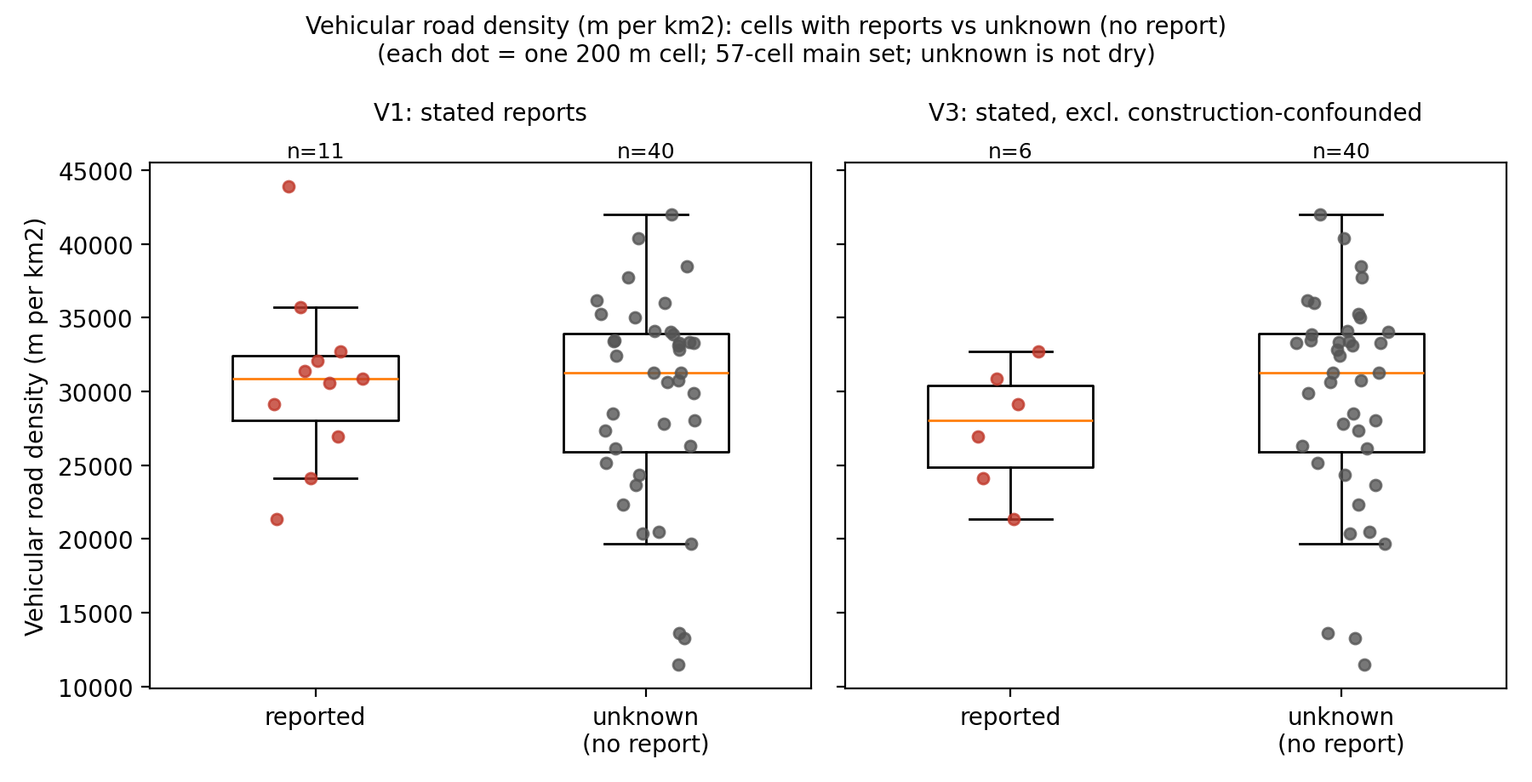
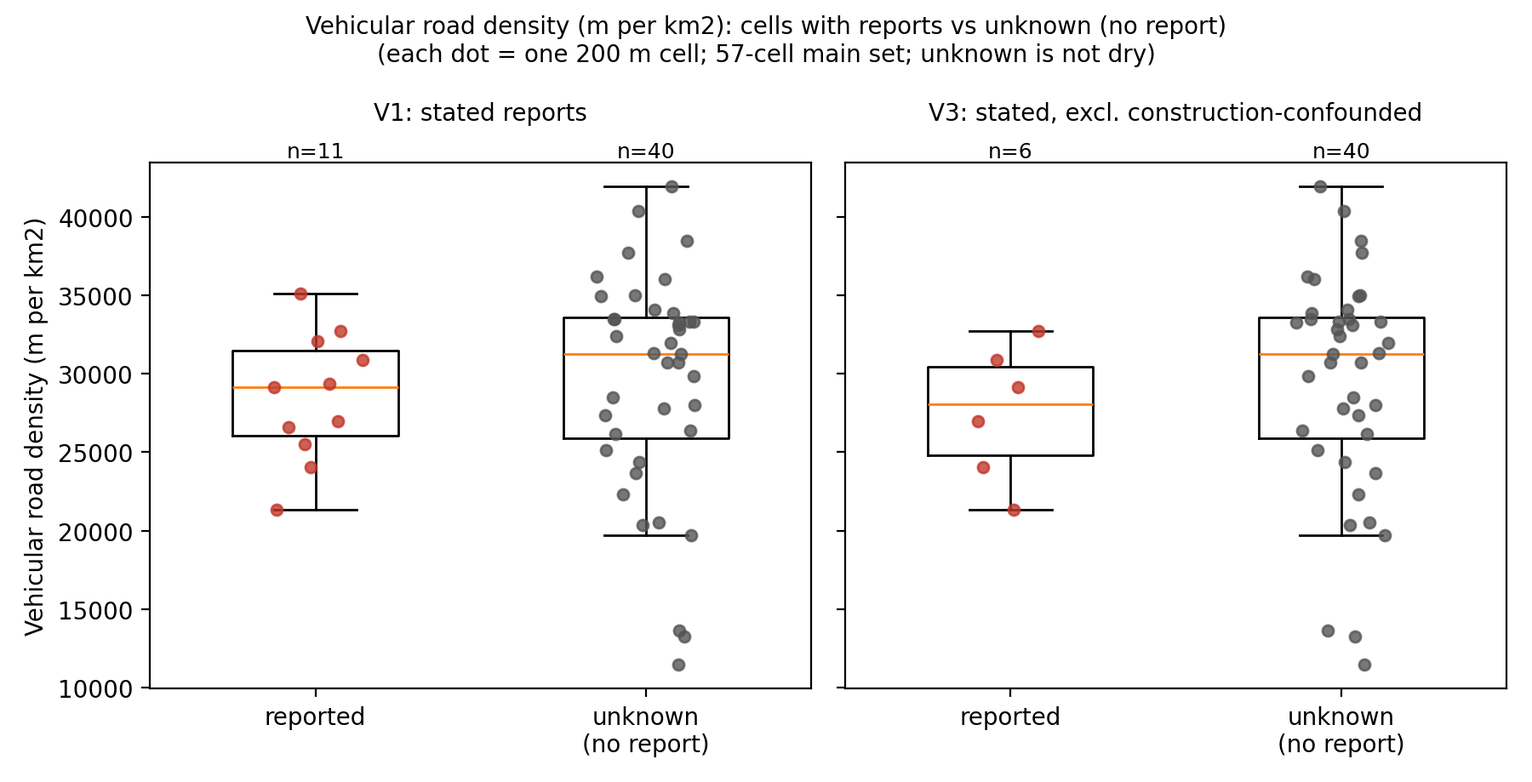
MF-42: Review (R3-R6 fixed: road length clipped to land, duplicate segment dropped, MF-30 rerun)

diff --git a/scripts/compute_grid_attributes.py b/scripts/compute_grid_attributes.py
@@ -11,8 +11,11 @@ shortcut: area is sampled at 5 m, so shares are good to about 0.1-0.5 percentage
 to about 1/(land points); pixel areas inside the island are treated as equal (about 4 deg N). Use exact
 polygon overlay if shapely is added.
 shortcut: building coverage uses footprint outer rings only (no holes) and counts overlapping footprints once
-(point is inside any); roads are clipped to the whole cell square, not to land (road_density divides by land area,
-so edge cells with jetties/causeways are inflated); the coast distance uses the OneMap outer ring only.
+(point is inside any); the coast distance uses the OneMap outer ring only.
+shortcut: road length is measured by sampling each segment at <= 1 m and keeping samples inside both the cell
+square and the OneMap outer ring (so jetty/causeway length off land no longer inflates density, MF-42 R3); good to
+about 1-3 m per cell. Segments marked rule = duplicate_geometry in derived/unnamed_segment_review.csv (MF-15) are
+dropped so their length is not counted twice.
 
 Raster georeferencing (Pillow tags 33550 scale, 33922 tiepoint, 34735 GeoKeys key 1025):
   FABDEM RasterPixelIsPoint: tiepoint is the CENTRE of pixel (0,0); pixel i spans x0 + (i +- 0.5) * dx.
@@ -36,7 +39,7 @@ Columns
   building_coverage_google075        share of land points inside any Google Open Buildings v3 footprint with confidence >= 0.75
                                      (0-1; footprint area fraction, not counts; model detections, not survey; CC BY 4.0 / ODbL).
                                      File: mapping/male_google_buildings_conf075.geojson
-  road_length_m, road_density_m_per_km2        OSM road centreline length clipped to the cell square (m) and that divided by land area (m per km2). ODbL.
+  road_length_m, road_density_m_per_km2        OSM road centreline length inside the cell square and on OneMap land (m), and that divided by land area (m per km2). ODbL.
   road_length_vehicular_m, ..._density_...     same, fclass in primary, primary_link, secondary, tertiary, residential,
                                      service, living_street (footway, pedestrian, path, steps excluded). File: mapping/male_osm_roads.geojson
   dist_centre_to_coast_m             distance from the cell square's centre to the OneMap outer ring, m
@@ -59,6 +62,7 @@ FAB = PACK / "elevation/Male_FABDEM_30m_masked.tif"
 WC = PACK / "mapping/male_worldcover_2021_10m.tif"
 BLD = PACK / "mapping/male_google_buildings_conf075.geojson"
 ROADS = PACK / "mapping/male_osm_roads.geojson"
+SEG_REVIEW = FilePath("derived/unnamed_segment_review.csv")
 OUT = FilePath("derived/grid_attributes.csv")
 CELL, N = 200, 40
 VEHICULAR = {"primary", "primary_link", "secondary", "tertiary", "residential", "service", "living_street"}
@@ -106,23 +110,15 @@ def pixel_weights(pix):
     return ids, cnt / cnt.sum()
 
 
-def clip_len(p, q, x0, y0, x1, y1):
-    """Liang-Barsky: length of segment p->q inside the rectangle."""
-    dx, dy = q[0] - p[0], q[1] - p[1]
-    t0, t1 = 0.0, 1.0
-    for pk, qk in ((-dx, p[0] - x0), (dx, x1 - p[0]), (-dy, p[1] - y0), (dy, y1 - p[1])):
-        if pk == 0:
-            if qk < 0:
-                return 0.0
-        else:
-            r = qk / pk
-            if pk < 0:
-                t0 = max(t0, r)
-            else:
-                t1 = min(t1, r)
-            if t0 > t1:
-                return 0.0
-    return (t1 - t0) * np.hypot(dx, dy)
+def sample_line(xy):
+    """Midpoints of <= 1 m pieces along a polyline, with each piece's length: rows of (x, y, length_m)."""
+    out = []
+    for a, b in zip(xy[:-1], xy[1:]):
+        L = float(np.hypot(*(b - a)))
+        k = max(1, int(np.ceil(L)))
+        t = (np.arange(k) + 0.5) / k
+        out.append(np.column_stack([a[0] + t * (b[0] - a[0]), a[1] + t * (b[1] - a[1]), np.full(k, L / k)]))
+    return np.vstack(out) if out else np.empty((0, 3))
 
 
 def dist_to_ring(pt, ring):
@@ -157,12 +153,22 @@ def main():
             polys.append((xy.min(0), xy.max(0), Path(xy)))
     bmin = np.array([p[0] for p in polys]); bmax = np.array([p[1] for p in polys])
 
-    roads = []  # (is_vehicular, xy)
+    seg = pd.read_csv(SEG_REVIEW)
+    dup = set(seg.loc[seg.rule == "duplicate_geometry", "osm_id"].astype(str))
+    rs, rv, dropped = [], [], []  # road samples, is-vehicular flag per sample, dropped duplicate osm_ids
     for f in json.loads(ROADS.read_text(encoding="utf-8"))["features"]:
+        if str(f["properties"]["osm_id"]) in dup:
+            dropped.append(str(f["properties"]["osm_id"]))
+            continue
         g = f["geometry"]
         for line in (g["coordinates"] if g["type"] == "MultiLineString" else [g["coordinates"]]):
-            roads.append((f["properties"].get("fclass") in VEHICULAR, utm_xy(line)))
-    road_total = sum(np.hypot(*np.diff(xy, axis=0).T).sum() for _, xy in roads)
+            s = sample_line(utm_xy(line))
+            rs.append(s)
+            rv.append(np.full(len(s), f["properties"].get("fclass") in VEHICULAR))
+    assert set(dropped) == dup, (dup, dropped)
+    rs, rv = np.vstack(rs), np.concatenate(rv)
+    on_land = island.contains_points(rs[:, :2])
+    road_total, road_land = rs[:, 2].sum(), rs[on_land, 2].sum()
 
     off = (np.arange(N) + 0.5) * CELL / N
     gx, gy = np.meshgrid(off, off)
@@ -210,13 +216,8 @@ def main():
             inb |= polys[i][2].contains_points(land)
         row["building_coverage_google075"] = inb.mean()
         # roads
-        tot = veh = 0.0
-        for isv, xy in roads:
-            if xy[:, 0].max() < e or xy[:, 0].min() > e + CELL or xy[:, 1].max() < n or xy[:, 1].min() > n + CELL:
-                continue
-            L = sum(clip_len(a, b, e, n, e + CELL, n + CELL) for a, b in zip(xy[:-1], xy[1:]))
-            tot += L
-            veh += L * isv
+        s = on_land & (rs[:, 0] >= e) & (rs[:, 0] < e + CELL) & (rs[:, 1] >= n) & (rs[:, 1] < n + CELL)
+        tot, veh = float(rs[s, 2].sum()), float(rs[s & rv, 2].sum())
         km2 = row["land_area_m2"] / 1e6
         row.update(road_length_m=tot, road_density_m_per_km2=tot / km2, road_length_vehicular_m=veh,
                    road_density_vehicular_m_per_km2=veh / km2)
@@ -242,20 +243,14 @@ def main():
     assert np.abs(df.land_fraction.values - gl).max() < 0.02
     shares = [c for c in cols if c.endswith("_share") or c in ("land_fraction", "building_coverage_google075")]
     assert ((df[shares].fillna(0) >= 0) & (df[shares].fillna(0) <= 1 + 1e-9)).all().all()
-    s = df[["worldcover_builtup_share", "worldcover_tree_share", "worldcover_water_share", "worldcover_other_share"]].dropna().sum(1)
+    s = df[["worldcover_builtup_share", "worldcover_tree_share", "worldcover_water_share", "worldcover_other_share"]].dropna().sum(axis=1)
     assert (abs(s - 1) < 1e-6).all()
     d = df.dropna(subset=["fabdem_min_m"])
     assert (d.fabdem_min_m <= d.fabdem_p10_m + 1e-9).all()
-    xmin, ymin = ring.min(0); xmax, ymax = ring.max(0)
-    ex = [f["properties"] for f in grid]
-    gx0, gx1 = min(q["easting_min"] for q in ex), max(q["easting_min"] for q in ex) + CELL
-    gy0, gy1 = min(q["northing_min"] for q in ex), max(q["northing_min"] for q in ex) + CELL
-    indep = sum(np.hypot(*np.diff(np.clip(xy, [gx0, gy0], [gx1, gy1]), axis=0).T).sum() for _, xy in roads)  # clip-by-clamp: approx
-    print(f"road total {df.road_length_m.sum():.0f} m vs all OSM {road_total:.0f} m vs clamp-in-extent {indep:.0f} m")
-    assert abs(df.road_length_m.sum() - road_total) / road_total < 0.02 or abs(df.road_length_m.sum() - indep) / indep < 0.02
-
-    # ---- reports
-    print("grid extent roads outside grid (m):", round(road_total - df.road_length_m.sum()))
+    # every on-land road sample falls in exactly one cell (the grid covers the island), so the cell sums equal the on-land total
+    print(f"road on land {road_land:.0f} m of {road_total:.0f} m OSM (duplicates dropped: {sorted(dup)}); cell sum {df.road_length_m.sum():.0f} m")
+    assert abs(df.road_length_m.sum() - road_land) < 1, (df.road_length_m.sum(), road_land)
+    assert (df.road_length_vehicular_m <= df.road_length_m + 1e-9).all()
     land_w = df.land_area_m2
     print("island FABDEM land-weighted mean of cell means: %.2f m (QA median 5.04); built-up share over land: %.3f; google bldg cov: %.3f" % (
         np.average(d.fabdem_mean_m, weights=d.land_area_m2), np.average(df.worldcover_builtup_share.dropna(), weights=land_w[df.worldcover_builtup_share.notna()]),

diff --git a/scripts/compare_reported_unknown.py b/scripts/compare_reported_unknown.py
@@ -78,7 +78,7 @@ for a in ATTRS:
         ax.set_xticks([0, 1]); ax.set_xticklabels(["reported", "unknown\n(no report)"])
         ax.set_title("V1: stated reports" if vn == "V1_stated" else "V3: stated, excl. construction-confounded", fontsize=10, pad=18)
     axs[0].set_ylabel(LAB[a])
-    fig.suptitle(f"{LAB[a]}: cells with reports vs unknown (no report)\n(each dot = one 200 m cell; 57-cell main set; unknown is not dry)", fontsize=10)
+    fig.suptitle(f"{LAB[a]}: cells with reports vs unknown (no report)\n(each dot = one 200 m cell; {int(d.main.sum())}-cell main set; unknown is not dry)", fontsize=10)
     fig.tight_layout(); fig.savefig(f"{OUT}/strip_{a}.png", dpi=200); plt.close(fig)
 
 fig, ax = plt.subplots(figsize=(7.5, 5.5))
@@ -97,12 +97,13 @@ ax.legend(fontsize=8); fig.tight_layout(); fig.savefig(f"{OUT}/scatter_elev_coas
 # self-checks
 for vn, (r, u) in V.items():
     assert not (r & u).any(), vn
-    assert (d.loc[r, "status"] != "unknown").all()
-    assert (d.loc[d.main & r, "status"] != "unknown").all() and (d.loc[u, "status"] == "unknown").all()
+    assert (d.loc[r, "status"] != "unknown").all() and (d.loc[u, "status"] == "unknown").all()
     for sn, sm in SETS.items():
-        for a in ATTRS[2:]:
-            g = gs[(gs.cell_set == sn) & (gs.version == vn) & (gs.attribute == a)].iloc[0]
-            assert g.reported_n == (sm & r & d[a].notna()).sum() and g.unknown_n == (sm & u & d[a].notna()).sum()
+        for a in ATTRS:
+            for flt in (["excl_zero_share_gt_0.1", "all_cells"] if a in FAB else ["all_cells"]):
+                k = sm & d[a].notna() & ((d.fabdem_zero_share <= 0.1) if flt.startswith("excl") else True)
+                g = gs[(gs.cell_set == sn) & (gs.version == vn) & (gs.attribute == a) & (gs.fabdem_filter == flt)]
+                assert len(g) == 1 and g.iloc[0].reported_n == (k & r).sum() and g.iloc[0].unknown_n == (k & u).sum(), (sn, vn, a, flt)
 assert not (V["V3_stated_excl_confounded"][0] & conf).any() and not (V["V3_stated_excl_confounded"][1] & conf).any()
 assert not (V["V4_V1_excl_routine_pump_sites"][0] & pump).any()
 for a in ATTRS: assert os.path.exists(f"{OUT}/strip_{a}.png")
@@ -121,7 +122,7 @@ L.append("## 1. Purpose\nDescribe how cells of the 200 m Malé grid that have a 
 L.append(f"## 2. Data and cell set\nInputs: `grid_evidence.csv`, `grid_attributes.csv`, `grid_blocks.csv`, `ward_evidence_summary.csv`. Main cell set: land fraction >= 0.25 plus the MF-26 exception cell {EXC} = **{int(d.main.sum())} of {len(d)} cells** (sensitivity: no cutoff, all {len(d)}). FABDEM comparisons leave out cells with exact-zero pixel share > 0.1 (likely the inherited sea mask); this drops "
          + ", ".join(f"{vn.split('_')[0]} {a} reported / {b} unknown" for vn, (a, b) in dropped.items()) + " cells. Results with those cells kept are in `group_summary.csv` (fabdem_filter = all_cells). "
          f"The designated cell ({des.cell_id}, {des.ward}) is kept out of both groups in every version.\n")
-L.append("## 3. Method\nFour versions, always unknown as the comparison group:\n- V1 stated flooding vs unknown.\n- V2 stated + pumping-only vs unknown.\n- V3 stated, excluding the 6 construction-confounded cells (RF071 only, issue E5); confounded cells left out of both groups.\n- V4 V1 without the two routine pump-site cells (IGMH, West Park/STO).\n"
+L.append(f"## 3. Method\nFour versions, always unknown as the comparison group:\n- V1 stated flooding vs unknown.\n- V2 stated + pumping-only vs unknown.\n- V3 stated, excluding the {int(conf.sum())} construction-confounded cells (RF071 only, issue E5); confounded cells left out of both groups.\n- V4 V1 without the {int(pump.sum())} routine pump-site cells (IGMH, West Park/STO).\n"
          "Per group: n, median, IQR, min, max, difference in medians, and the share of reported cells whose value lies inside the unknown group's IQR. The groups are biased samples (reports cluster at arterials and landmarks), so differences describe these cells only.\n")
 L.append("## 4. Key tables (main cell set)\n### Cells per group\n| Version | Reported | Unknown |\n|---|---|---|")
 for vn in V: a, b = cnt(vn); L.append(f"| {vn} | {a} | {b} |")
@@ -146,7 +147,7 @@ L.append("## 5. What the figures show\n`strip_<attribute>.png` plots each cell a
          "For V3 the reported-cell medians are " + "; ".join(f"{a} {x3[a].reported_median:.3g} against {x3[a].unknown_median:.3g}" for a in ATTRS) + ". "
          "Where the share inside the unknown IQR is high (table above) the groups overlap on that attribute; where it is low they separate in these cells.\n")
 L.append("## 6. Limits\n- Positive-only evidence: unknown cells include cells that flooded without a report, so differences may be understated or biased.\n- Reporting favours arterials and landmarks, so reported cells are not a random sample.\n- Pump sites: pumping-only and routine pump-site records reflect where pumps are stationed (V2 and V4 show the effect).\n"
-         f"- Six cells are confounded: their only stated flooding is RF071 (30 Jul 2026, blamed on pumps not yet commissioned, E5). V3 therefore has {cnt('V3_stated_excl_confounded')[0]} reported cells in the main set ({g('V3_stated_excl_confounded','fabdem_p10_m').reported_n:.0f} with FABDEM), so medians are very unstable.\n"
+         f"- {int(conf.sum())} cells are confounded: their only stated flooding is RF071 (30 Jul 2026, blamed on pumps not yet commissioned, E5). V3 therefore has {cnt('V3_stated_excl_confounded')[0]} reported cells in the main set ({g('V3_stated_excl_confounded','fabdem_p10_m').reported_n:.0f} with FABDEM), so medians are very unstable.\n"
          "- FABDEM is relative only, not surveyed, with known bias; exact zeros are likely sea mask. WorldCover built-up share is near saturation on land, so it separates little. Building coverage is one source (Google, confidence >= 0.75).\n"
          "- The four OSM wards are not checked against a Council map; ward rows describe small n and are not comparable by size.\n- Differences are descriptive and not tested for any population.\n")
 L.append("## 7. For MF-50\nFacts only: see the overlap table for which attributes separate or overlap between the groups, and the V3 and V4 columns for how the picture changes when confounded cells or routine pump sites are removed. Use the MF-50 draft for any modelling decision.\n")

diff --git a/reports/mf42_code_review.md b/reports/mf42_code_review.md
@@ -19,9 +19,9 @@ The method matches its docstrings. After fixes R1 and R2, both scripts reproduce
 |---|---|---|---|---|---|
 | R1 | High (blocks rerun on Windows) | both | Files were opened without `encoding=`, so Windows used cp1252. `compute_grid_attributes.py` crashed reading the OneMap GeoJSON (`UnicodeDecodeError`). `compare_reported_unknown.py` wrote "Malé" in the report as cp1252, not UTF-8. This also blocks MF-32 on Windows. | Added `encoding="utf-8"` to the 4 `read_text()` calls and to the report `open()`. Outputs unchanged. Four other scripts have the same pattern (`build_dashboard.py`, `build_ward_map.py`, `define_spatial_blocks.py`, `explore_daily_flood.py`), outside this review; `scripts/rebuild_all.py` (MF-32) sets PYTHONUTF8=1, so they run there; run directly on Windows they still need the fix. | Resolved |
 | R2 | Medium | `requirements.txt` | `compute_grid_attributes.py` imports `PIL`, but Pillow was not listed. It only arrived as a matplotlib dependency, so its version was unpinned. | Added `pillow==13.0.0`. | Resolved |
-| R3 | Medium (affects MF-30 numbers) | `compute_grid_attributes.py` | Road length is clipped to the cell square but divided by land area (the documented shortcut). 891 m of the 61,043 m of vehicular road lies off the OneMap polygon (harbour and jetty segments). Clipping roads to land would cut density by 40% in G334800_462000, which has the highest density in the main set and is a reported, construction-confounded cell. G334600_462000 would drop by 19% and two others by 2 to 4%. All four are reported cells. The V1 reported median would fall from 30,860 to 29,113 m per km2, against 31,268 for unknown cells. So the "reported vs unknown" road-density comparison in MF-30 is partly an edge artefact. | Proposed: count only road length inside the island, for example by sampling segments at 1 m and testing with the existing `island.contains_points`, then rerun MF-30. The output and report numbers would change, so this needs Iyaadh's agreement. | Open (Iyaadh) |
-| R4 | Low | `compare_reported_unknown.py` | Several text values are hard-coded: "57-cell main set" in the figure titles, and "6 construction-confounded cells" and "two routine pump-site cells" in the report. They are correct now but will go stale if the evidence changes. | Suggest building them from `d.main.sum()`, `conf.sum()` and `pump.sum()`. | Open (Iyaadh) |
-| R5 | Low | `compare_reported_unknown.py` | The self-check on group n covers `ATTRS[2:]` only, so the FABDEM rows (two filter variants) are not checked. Line 101 repeats the check on line 100. | Suggest checking FABDEM n per `fabdem_filter` value. | Open (Iyaadh) |
-| R6 | Nit | `compute_grid_attributes.py` | A cell with no land would divide by zero (`ok.sum() / m`). It can't happen with the current grid (minimum land fraction 0.001). `.sum(1)` raises a Pandas4Warning. | No change needed now. | Noted |
+| R3 | Medium (affects MF-30 numbers) | `compute_grid_attributes.py` | Road length is clipped to the cell square but divided by land area (the documented shortcut). 891 m of the 61,043 m of vehicular road lies off the OneMap polygon (harbour and jetty segments). Clipping roads to land would cut density by 40% in G334800_462000, which has the highest density in the main set and is a reported, construction-confounded cell. G334600_462000 would drop by 19% and two others by 2 to 4%. All four are reported cells. The V1 reported median would fall from 30,860 to 29,113 m per km2, against 31,268 for unknown cells. So the "reported vs unknown" road-density comparison in MF-30 is partly an edge artefact. | Fixed: roads are now sampled at 1 m or finer, and only samples inside both the cell and the OneMap ring are counted. The Liang-Barsky clip is removed. The fix also drops OSM 1528883097, the duplicate segment flagged in `reports/review_s1_aslan.md` (MF-15, issue F3). It is read from `unnamed_segment_review.csv` (`rule = duplicate_geometry`), not hard-coded. New self-check: cell sums equal the on-land total (64,753 m of 65,655 m). Only the 4 road columns of `grid_attributes.csv` changed, in 27 cells. In MF-30 (V1, main set), the reported median vehicular density fell from 30,900 to 29,100 m per km2 and the unknown median stayed at 31,300. V4 fell from 31,400 to 29,400, so it is now below unknown instead of just above it. The reported maximum fell from 43,900 to 35,100. The IQR-overlap shares are unchanged (0.64, 0.67). | Resolved |
+| R4 | Low | `compare_reported_unknown.py` | Several text values are hard-coded: "57-cell main set" in the figure titles, and "6 construction-confounded cells" and "two routine pump-site cells" in the report. They are correct now but will go stale if the evidence changes. | Built from `d.main.sum()`, `conf.sum()` and `pump.sum()`. The report now says "2" and "6" in digits. | Resolved |
+| R5 | Low | `compare_reported_unknown.py` | The self-check on group n covers `ATTRS[2:]` only, so the FABDEM rows (two filter variants) are not checked. Line 101 repeats the check on line 100. | The self-check now covers every attribute and every `fabdem_filter` row, and asserts exactly one row per combination. The duplicate check was removed. | Resolved |
+| R6 | Nit | `compute_grid_attributes.py` | A cell with no land would divide by zero (`ok.sum() / m`). It can't happen with the current grid (minimum land fraction 0.001). `.sum(1)` raises a Pandas4Warning. | Changed to `.sum(axis=1)`. The divide-by-zero case can't occur with this grid, so it is left as is. | Resolved |
 
-MF-42 stays **In progress** until R3 to R5 are resolved or Iyaadh decides to keep them as they are.
+R3 to R6 were fixed by Aslan on 24 Nov 2026, at the student's request, without waiting for Iyaadh. Both scripts pass their self-checks, and `scripts/rebuild_all.py --check-only` passes. Iyaadh should confirm the R3 method change when moving MF-42 to Done. The new road-density numbers replace the old ones wherever MF-30 is quoted.

diff --git a/reports/mf30_reported_vs_unknown.md b/reports/mf30_reported_vs_unknown.md
@@ -13,7 +13,7 @@ Four versions, always unknown as the comparison group:
 - V1 stated flooding vs unknown.
 - V2 stated + pumping-only vs unknown.
 - V3 stated, excluding the 6 construction-confounded cells (RF071 only, issue E5); confounded cells left out of both groups.
-- V4 V1 without the two routine pump-site cells (IGMH, West Park/STO).
+- V4 V1 without the 2 routine pump-site cells (IGMH, West Park/STO).
 Per group: n, median, IQR, min, max, difference in medians, and the share of reported cells whose value lies inside the unknown group's IQR. The groups are biased samples (reports cluster at arterials and landmarks), so differences describe these cells only.
 
 ## 4. Key tables (main cell set)
@@ -34,7 +34,7 @@ No-cutoff sensitivity: V1 12 / 57; V2 17 / 57; V3 6 / 57; V4 10 / 57 (reported /
 | fabdem_p10_m | 1.56 / 4.18 (n 10/36) | 1.26 / 4.18 (n 5/36) | 1.86 / 4.18 (n 8/36) |
 | building_coverage_google075 | 0.296 / 0.314 (n 11/40) | 0.28 / 0.314 (n 6/40) | 0.296 / 0.314 (n 9/40) |
 | worldcover_builtup_share | 0.574 / 0.527 (n 11/40) | 0.577 / 0.527 (n 6/40) | 0.574 / 0.527 (n 9/40) |
-| road_density_vehicular_m_per_km2 | 3.09e+04 / 3.13e+04 (n 11/40) | 2.8e+04 / 3.13e+04 (n 6/40) | 3.14e+04 / 3.13e+04 (n 9/40) |
+| road_density_vehicular_m_per_km2 | 2.91e+04 / 3.13e+04 (n 11/40) | 2.8e+04 / 3.13e+04 (n 6/40) | 2.94e+04 / 3.13e+04 (n 9/40) |
 | dist_land_centroid_to_coast_m | 70.9 / 228 (n 11/40) | 75.9 / 228 (n 6/40) | 70.9 / 228 (n 9/40) |
 
 ### Overlap: share of V1 reported cells inside the unknown IQR
@@ -44,7 +44,7 @@ No-cutoff sensitivity: V1 12 / 57; V2 17 / 57; V3 6 / 57; V4 10 / 57 (reported /
 | fabdem_p10_m | 0.50 | 0.60 | 0.46 to 6.07 | 0.45 to 6.36 |
 | building_coverage_google075 | 0.55 | 0.33 | 0.146 to 0.419 | 0.118 to 0.441 |
 | worldcover_builtup_share | 0.73 | 0.67 | 0.292 to 0.837 | 0.297 to 0.779 |
-| road_density_vehicular_m_per_km2 | 0.64 | 0.67 | 2.13e+04 to 4.39e+04 | 1.15e+04 to 4.2e+04 |
+| road_density_vehicular_m_per_km2 | 0.64 | 0.67 | 2.13e+04 to 3.51e+04 | 1.15e+04 to 4.19e+04 |
 | dist_land_centroid_to_coast_m | 0.18 | 0.17 | 22.2 to 422 | 11.9 to 511 |
 
 ### Wards (main set; not a ranking)
@@ -59,13 +59,13 @@ Ward medians are in `ward_table.csv`.
 
 ## 5. What the figures show
 `strip_<attribute>.png` plots each cell as a dot, reported vs unknown (no report), for V1 (left) and V3 (right), with boxes for median and IQR. `scatter_elev_coast.png` plots FABDEM 10th percentile elevation against distance to coast, with marker shapes for status, rings for confounded cells and crosses for routine pump sites.
-In words, for V1 the reported cells have median fabdem_mean_m 5.46 against 5.35; fabdem_p10_m 1.56 against 4.18; building_coverage_google075 0.296 against 0.314; worldcover_builtup_share 0.574 against 0.527; road_density_vehicular_m_per_km2 3.09e+04 against 3.13e+04; dist_land_centroid_to_coast_m 70.9 against 228. For V3 the reported-cell medians are fabdem_mean_m 3.22 against 5.35; fabdem_p10_m 1.26 against 4.18; building_coverage_google075 0.28 against 0.314; worldcover_builtup_share 0.577 against 0.527; road_density_vehicular_m_per_km2 2.8e+04 against 3.13e+04; dist_land_centroid_to_coast_m 75.9 against 228. Where the share inside the unknown IQR is high (table above) the groups overlap on that attribute; where it is low they separate in these cells.
+In words, for V1 the reported cells have median fabdem_mean_m 5.46 against 5.35; fabdem_p10_m 1.56 against 4.18; building_coverage_google075 0.296 against 0.314; worldcover_builtup_share 0.574 against 0.527; road_density_vehicular_m_per_km2 2.91e+04 against 3.13e+04; dist_land_centroid_to_coast_m 70.9 against 228. For V3 the reported-cell medians are fabdem_mean_m 3.22 against 5.35; fabdem_p10_m 1.26 against 4.18; building_coverage_google075 0.28 against 0.314; worldcover_builtup_share 0.577 against 0.527; road_density_vehicular_m_per_km2 2.8e+04 against 3.13e+04; dist_land_centroid_to_coast_m 75.9 against 228. Where the share inside the unknown IQR is high (table above) the groups overlap on that attribute; where it is low they separate in these cells.
 
 ## 6. Limits
 - Positive-only evidence: unknown cells include cells that flooded without a report, so differences may be understated or biased.
 - Reporting favours arterials and landmarks, so reported cells are not a random sample.
 - Pump sites: pumping-only and routine pump-site records reflect where pumps are stationed (V2 and V4 show the effect).
-- Six cells are confounded: their only stated flooding is RF071 (30 Jul 2026, blamed on pumps not yet commissioned, E5). V3 therefore has 6 reported cells in the main set (5 with FABDEM), so medians are very unstable.
+- 6 cells are confounded: their only stated flooding is RF071 (30 Jul 2026, blamed on pumps not yet commissioned, E5). V3 therefore has 6 reported cells in the main set (5 with FABDEM), so medians are very unstable.
 - FABDEM is relative only, not surveyed, with known bias; exact zeros are likely sea mask. WorldCover built-up share is near saturation on land, so it separates little. Building coverage is one source (Google, confidence >= 0.75).
 - The four OSM wards are not checked against a Council map; ward rows describe small n and are not comparable by size.
 - Differences are descriptive and not tested for any population.

diff --git a/data_issues.md b/data_issues.md
@@ -61,7 +61,7 @@ Status key: **Open** means not yet resolved. **Handled** means a workaround is a
 |---|---|---|---|---|
 | F1 | Majeedhee, Ameenee and Boduthakurufaanu exist in OSM only under their Dhivehi names. | English name matching alone finds nothing. | A documented Dhivehi alias table is used, cross-checked against the compiler's geometry. | Handled |
 | F2 | Similar-looking OSM names belong to different streets (*Amenee Goalhi*, *Rah Dhebai Hingun*). | Risk of false matches. | Explicitly excluded. | Handled |
-| F3 | The compiler's lines cover 8 unnamed OSM segments next to Majeedhee, Ameenee and Boduthakurufaanu. | They may be parts of the same roads. | Reviewed in `derived/unnamed_segment_review.csv` (MF-15). None is part of the named carriageway: 6 footways or steps, 1 short service stub, and 1 residential way (1528883097) whose 57 m beside Majeedhee duplicates the named centreline. Exclude that one from the segment table (MF-20). Decided from OSM geometry only; 1528883097 should be confirmed on imagery. | Handled |
+| F3 | The compiler's lines cover 8 unnamed OSM segments next to Majeedhee, Ameenee and Boduthakurufaanu. | They may be parts of the same roads. | Reviewed in `derived/unnamed_segment_review.csv` (MF-15). None is part of the named carriageway: 6 footways or steps, 1 short service stub, and 1 residential way (1528883097) whose 57 m beside Majeedhee duplicates the named centreline. Exclude that one from the segment table (MF-20). Update 24 Nov 2026 (MF-42): it is now dropped from the MF-22 road length and density in `derived/grid_attributes.csv`. Decided from OSM geometry only; 1528883097 should be confirmed on imagery. | Handled |
 | F4 | The Majeedhee section covers only 44 m of a 0.9 km OSM segment. | Labelling the whole segment would overstate the flooded section. | Split OSM segments at junctions before labelling. | Open |
 | F5 | The Boduthakurufaanu section ends are landmarks (Henveiru Ferry Terminal, Izzuddin Jetty), and the extent is approximate. | The extent is uncertain. | Matched as `uncertain_section_extent`. | Open |
 | F6 | The 15 landmarks are not tied to any specific road. | They can't directly label roads. | Nearby roads within 50 m are listed as candidates only. | Handled |

diff --git a/sprint.md b/sprint.md
@@ -78,7 +78,7 @@ Dates are YYYY-MM-DD. Deadline (confirmed with the lecturer): 30 May 2027, 12:00
 | MF-34 | S3 | M3 | 1 | To do | Wording check on exploratory outputs | MF-30 | G1, G4 | No | Says 'reported', treats unknown as unknown, and states no rainfall thresholds. |
 | MF-40 | S4 | M3 | 2 | Review | Set up the review in the coursework IJCAI template | None | I4 | No | The coursework .doc template opens with the title, authors and section skeleton in place. |
 | MF-41 | S4 | M3 | 3 | In progress | Literature review outline by theme | MF-33 | None | No | Themes, article-to-section mapping and a page budget. |
-| MF-42 | S4 | M2 | 2 | In progress | Peer-review Iyaadh's attribute and exploratory code | MF-30 | None | No | Findings logged and resolved. |
+| MF-42 | S4 | M2 | 2 | Review | Peer-review Iyaadh's attribute and exploratory code | MF-30 | None | No | Findings logged and resolved. |
 | MF-43 | S4 | M1 | 2 | To do | Peer-review Aslan's area units and evidence join | MF-21, MF-32 | None | No | Findings logged and resolved. |
 | MF-44 | S4 | M1 | 2 | Review | Descriptive rainfall table for reported incidents | None | C3, D6, G4 | No | Units, accumulation periods and contradictions kept; no threshold claims. |
 | MF-45 | S4 | M2 | 3 | To do | Follow up agency requests and load any data received | MF-23 | H1, H2, H3, H4 | No | Response log updated; received data stored raw with provenance. |
